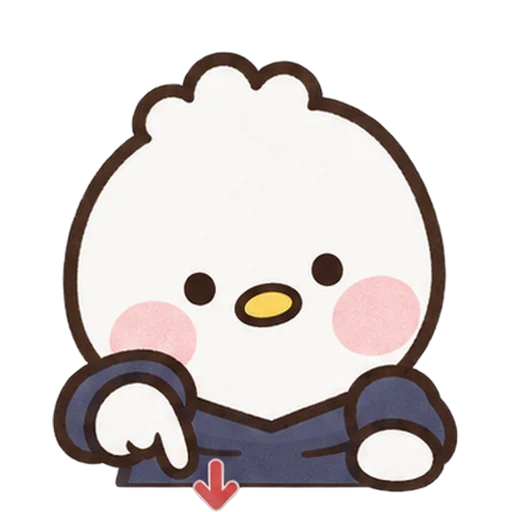
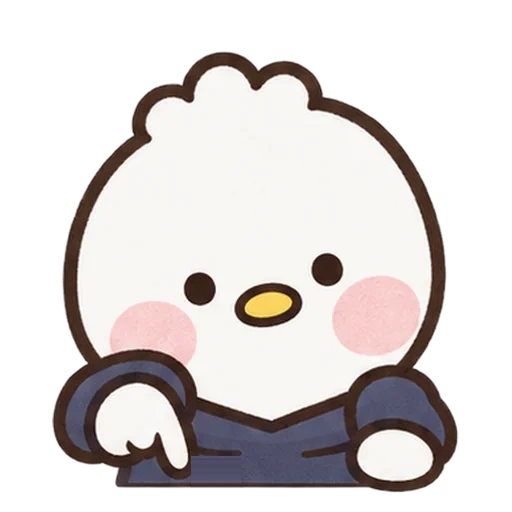
마스코트: 가리키는 그림 아래 빨간 화살표 지움(이미지 새로 받게 주소에 v=2)
Claude-Session: https://claude.ai/code/session_01212Jw2tFAXrUyhM8LRxLov

Changed region(s): [[0.375, 0.875, 0.4688, 1.0]]

diff --git a/games/purchase.html b/games/purchase.html
@@ -490,7 +490,7 @@ function tutWrapPos(){var o=$('tut'),w=o&&o.querySelector('.tt-wrap');if(!w)retu
   if(bar&&!bar.hidden&&bar.getClientRects().length){w.style.bottom='auto';w.style.top=Math.max(14,bar.getBoundingClientRect().top-w.offsetHeight-14)+'px';return;}
   if(!H){w.style.top='';w.style.bottom='';return;}w.style.bottom='auto';w.style.top=(H-w.offsetHeight-14)+'px';}
 function tutDim(on){try{if(P)P.postMessage({type:'sittdartha_tutdim',on:!!on},'*');}catch(e){}}
-function tutStart(){tutDim(true);TUT.forEach(function(x){var i=new Image();i.src='/img/mascot/'+x.m+'.webp';});
+function tutStart(){tutDim(true);TUT.forEach(function(x){var i=new Image();i.src='/img/mascot/'+x.m+'.webp?v=2';});
   tutBak={items:JSON.parse(JSON.stringify(items)),topic:st.topic,fold:fold};st.tut=true;fold=false;cur=null;$('vItem').hidden=true;$('vList').hidden=false;renderList();
   var o=$('tut');if(o)o.remove();o=document.createElement('div');o.id='tut';
   o.innerHTML='<div class="tt-wrap"><div class="tt-box"><div class="tt-mw"><img class="tt-m" alt=""></div><div class="tt-col"><div class="tt-txt"></div><span class="tt-dots"></span><div class="tt-ft"><button type="button" class="tt-pv">이전</button><button type="button" class="tt-skip">건너뛰기</button><span class="tt-nx">다음</span></div></div></div></div>';
@@ -522,7 +522,7 @@ function tutHole(el){tutHoleT=el;if(!tutHoleEl){tutHoleEl=document.createElement
     tutHoleRaf=requestAnimationFrame(f);})();}
 function tutPlace(el){var o=$('tut');if(o)o.classList.toggle('up',!!(el&&el.offsetParent&&el.closest('.bar')));tutWrapPos();}
 function tutShow(){var o=$('tut');if(!o)return;var x=TUT[tutI],img=o.querySelector('.tt-m'),tx=o.querySelector('.tt-txt');
-  tutSnap();tutSpot();o.querySelector('.tt-pv').hidden=tutI===0;img.classList.remove('pop');void img.offsetWidth;img.src='/img/mascot/'+x.m+'.webp';img.classList.add('pop');
+  tutSnap();tutSpot();o.querySelector('.tt-pv').hidden=tutI===0;img.classList.remove('pop');void img.offsetWidth;img.src='/img/mascot/'+x.m+'.webp?v=2';img.classList.add('pop');
   o.querySelector('.tt-dots').innerHTML=TUT.map(function(_,k){return '<i class="'+(k===tutI?'on':'')+'"></i>';}).join('');
   o.querySelector('.tt-nx').textContent=tutI===TUT.length-1?'시작하기':'다음';o.querySelector('.tt-skip').hidden=tutI===TUT.length-1;
   clearInterval(tutTm);var n=0;tx.textContent='';tx.dataset.full=x.t;tutTm=setInterval(function(){n++;tx.textContent=x.t.slice(0,n);if(n>=x.t.length)clearInterval(tutTm);},28);

diff --git a/student.html b/student.html
@@ -1039,7 +1039,7 @@ const PUR_TUT=[
   {m:'point',el:'.pur-go',t:'다 썼으면 입장을 눌러.'},
   {m:'ok',t:'들어가면 실제 화면에서 품목 넣는 걸 같이 해 볼 거야. 그럼 입장해 봐!'}];
 let purTutI=0,purTutTimer=null;
-function purTutStart(){try{localStorage.setItem('pur_tut_go','1');}catch(e){}PUR_TUT.forEach(x=>{const i=new Image();i.src='/img/mascot/'+x.m+'.webp';});
+function purTutStart(){try{localStorage.setItem('pur_tut_go','1');}catch(e){}PUR_TUT.forEach(x=>{const i=new Image();i.src='/img/mascot/'+x.m+'.webp?v=2';});
   let o=document.getElementById('purTut');if(o)o.remove();
   o=document.createElement('div');o.id='purTut';o.innerHTML='<div class="pt-dim"></div><button type="button" class="pt-skip">건너뛰기</button><div class="pt-wrap"><div class="pt-box"><div class="pt-mw"><img class="pt-m" alt=""></div><div class="pt-col"><div class="pt-txt"></div><div class="pt-ft"><span class="pt-dots"></span><span class="pt-nx">다음</span></div></div></div></div>';
   document.body.appendChild(o);if(document.activeElement)document.activeElement.blur();{const er=document.getElementById('purErr');if(er)er.textContent='';}
@@ -1051,7 +1051,7 @@ function purTutShow(){const o=document.getElementById('purTut');if(!o)return;con
   const el=st.el&&document.querySelector(st.el);
   if(el){el.classList.add('pt-spot');o.classList.add('has');el.scrollIntoView({block:'center',behavior:'smooth'});}
   else o.classList.remove('has');
-  img.classList.remove('pop');void img.offsetWidth;img.src='/img/mascot/'+st.m+'.webp';img.classList.add('pop');
+  img.classList.remove('pop');void img.offsetWidth;img.src='/img/mascot/'+st.m+'.webp?v=2';img.classList.add('pop');
   o.querySelector('.pt-dots').innerHTML=PUR_TUT.map((_,k)=>'<i class="'+(k===purTutI?'on':'')+'"></i>').join('');
   o.querySelector('.pt-nx').textContent=purTutI===PUR_TUT.length-1?'시작하기':'다음';
   clearInterval(purTutTimer);let n=0;tx.textContent='';tx.dataset.full=st.t;
